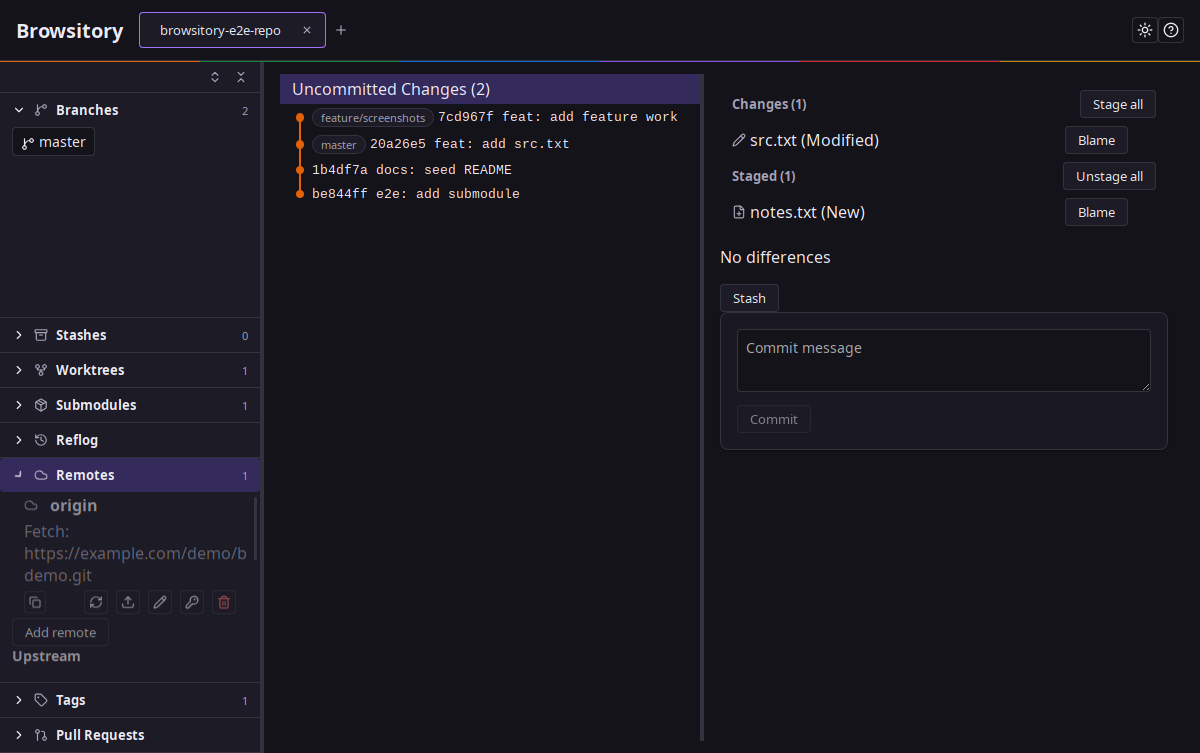
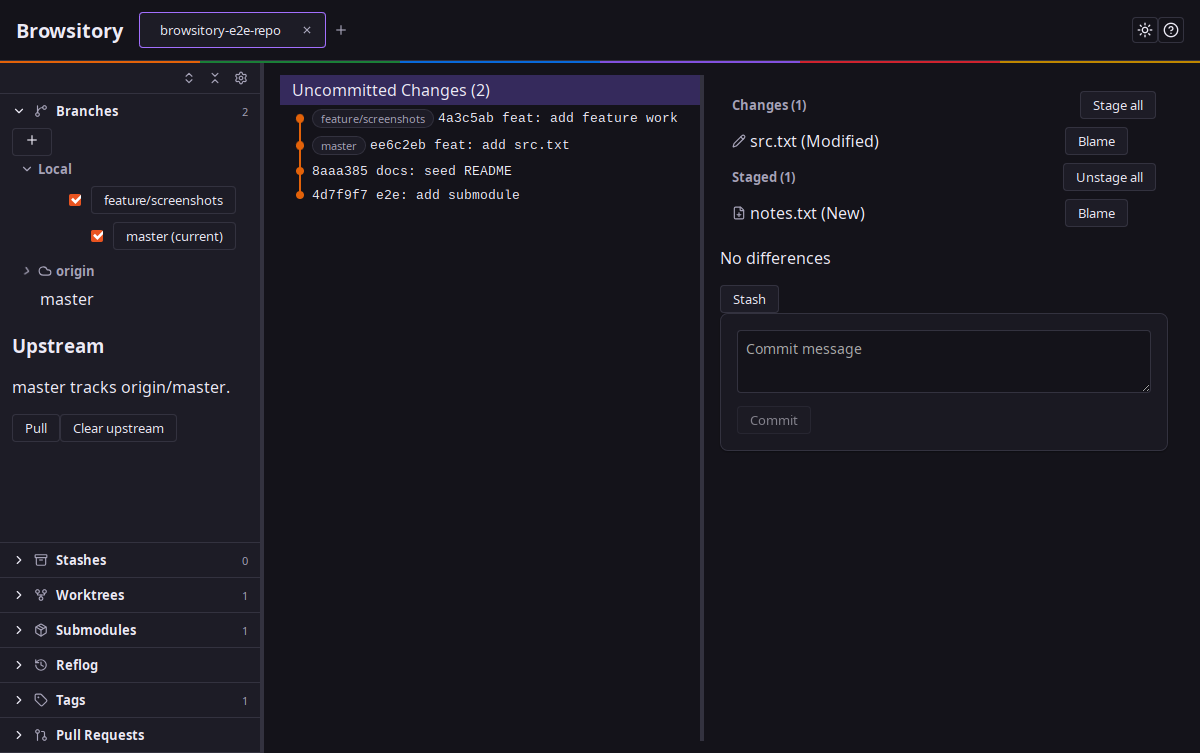
fix(e2e): wait for remote folder to actually expand before screenshotting, regenerate docs assets
The remote-folder-expanded screenshot test clicked the folder header and
immediately screenshotted, catching the pre-render frame before React
committed aria-expanded=true — the resulting remotes.png silently showed
the folder still collapsed. Added a waitUntil on aria-expanded, then
regenerated all seven doc screenshots against the current BranchTree UI
(closes the concern noted in the final-review fix wave's report).

diff --git a/e2e/specs/screenshots.docs.ts b/e2e/specs/screenshots.docs.ts
@@ -147,6 +147,13 @@ describe("Browsitory screenshots (docs)", () => {
     await remoteFolderHeader.waitForExist({ timeout: 10000 });
     if ((await remoteFolderHeader.getAttribute("aria-expanded")) !== "true") {
       await browser.execute((el) => (el as HTMLElement).click(), remoteFolderHeader);
+      // The click flips `aria-expanded` synchronously in React state, but the attribute doesn't
+      // land in the DOM until the next render commits — screenshotting immediately after
+      // `execute()` returns can catch the pre-render frame, showing the folder still collapsed.
+      await browser.waitUntil(async () => (await remoteFolderHeader.getAttribute("aria-expanded")) === "true", {
+        timeout: 5000,
+        timeoutMsg: "remote folder never reported aria-expanded=true after being clicked",
+      });
     }
 
     await browser.saveScreenshot(path.join(SCREENSHOT_DIR, "remotes.png"));
